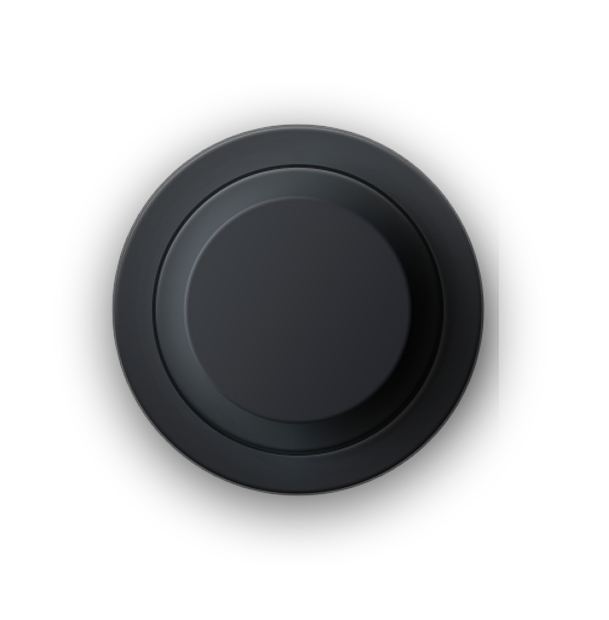
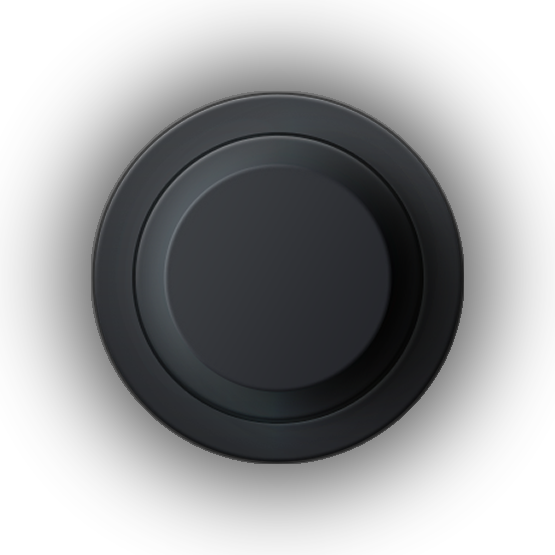
Add knob img and create component

diff --git a/Source/GUI/Components/ImgKnob.cpp b/Source/GUI/Components/ImgKnob.cpp
@@ -2,9 +2,10 @@
 #include "GTLook.h"
 #include "GUI/LAF/LookAndFeel.h"
 
-ImgKnob::ImgKnob (juce::AudioProcessorValueTreeState& apvts, const juce::ParameterID& parameterID, const juce::String& suffix)
+ImgKnob::ImgKnob (juce::AudioProcessorValueTreeState& apvts, const juce::ParameterID& parameterID, const juce::String& suffix, bool drawFromMiddle)
     : attachment (apvts, parameterID.getParamID(), *this),
-      unit (suffix)
+      unit (suffix),
+      drawFromMiddle (drawFromMiddle)
 {
     setSliderStyle (juce::Slider::SliderStyle::RotaryVerticalDrag);
     setTextBoxStyle (juce::Slider::NoTextBox, false, 0, 0);
@@ -25,25 +26,22 @@ void ImgKnob::paint (juce::Graphics& g)
     // knob.png already contains the knob face and its shadow.
     g.drawImage (knobImage, boundsF, juce::RectanglePlacement::centred, false);
 
-
     const auto knobRadius = boundsF.getWidth() * 0.25f;
     const auto centre = boundsF.getCentre();
-
     const auto rotaryParams = getRotaryParameters();
     const auto sliderPos = static_cast<float> (valueToProportionOfLength (getValue()));
     const auto angle = rotaryParams.startAngleRadians + sliderPos * (rotaryParams.endAngleRadians - rotaryParams.startAngleRadians);
-    const juce::PathStrokeType stroke (knobRadius * 0.07f, juce::PathStrokeType::mitered, juce::PathStrokeType::butt);
-    g.setColour (GTColors::accentActive);
+    const juce::PathStrokeType stroke (knobRadius * 0.075f, juce::PathStrokeType::mitered, juce::PathStrokeType::butt);
+    g.setColour(GTColors::dividerLines);
 
-    if (sliderPos > 0.001f)
-    {
-        const auto r = knobRadius * 1.2f;
-        juce::Path valueArc;
-        valueArc.addCentredArc (centre.x, centre.y,
-                                 r, r,
-                                 0.0f, rotaryParams.startAngleRadians, angle, true);
-        g.strokePath (valueArc, stroke);
-    }
+    const auto r = knobRadius * 1.5f;
+
+    if (drawFromMiddle)
+        paintFillStroke (g, centre, r, stroke, angle);
+    else
+        paintLightDots (g, centre, r, knobRadius, angle);
+
+    g.setColour (GTColors::accentActive);
 
     const juce::Point<float> tickDirection (std::sin (angle), -std::cos (angle));
     juce::Path tick;
@@ -54,5 +52,51 @@ void ImgKnob::paint (juce::Graphics& g)
     const auto text = juce::String (juce::roundToInt (getValue())) + unit;
     g.setColour (juce::Colours::white);
     g.setFont (Fonts::getFont (boundsF.getWidth() * 0.0975f));
-    g.drawText (text, boundsF.toNearestInt(), juce::Justification::centredBottom, true);
+    g.drawText (text, boundsF.translated (0.0f, boundsF.getHeight() * JUCE_LIVE_CONSTANT (0.0f)).toNearestInt(), juce::Justification::centredBottom, true);
+}
+
+void ImgKnob::paintFillStroke (juce::Graphics& g, juce::Point<float> centre, float r, const juce::PathStrokeType& stroke, float angle)
+{
+    const auto rotaryParams = getRotaryParameters();
+    juce::Path backgroundArc;
+    backgroundArc.addCentredArc (centre.x, centre.y,
+                                  r, r, 0.0f,
+                                   rotaryParams.startAngleRadians, rotaryParams.endAngleRadians, true);
+    g.strokePath (backgroundArc, stroke);
+
+    g.setColour (GTColors::accentActive);
+
+    const auto minStubAngle = 0.05f;
+    const auto midAngle = (rotaryParams.startAngleRadians + rotaryParams.endAngleRadians) * 0.5f;
+    const auto valueArcStart = drawFromMiddle ? juce::jmin (angle, midAngle) - minStubAngle : rotaryParams.startAngleRadians;
+    const auto valueArcEnd = drawFromMiddle ? juce::jmax (angle, midAngle) + minStubAngle : juce::jmax (angle, rotaryParams.startAngleRadians + minStubAngle);
+    juce::Path valueArc;
+    valueArc.addCentredArc (centre.x, centre.y,
+                             r, r,
+                             0.0f, valueArcStart, valueArcEnd, true);
+    g.strokePath (valueArc, stroke);
+}
+
+void ImgKnob::paintLightDots (juce::Graphics& g, juce::Point<float> centre, float r, float knobRadius, float angle)
+{
+    const auto rotaryParams = getRotaryParameters();
+    const auto numberOfDots = 11;
+    const auto dotRadius = knobRadius * 0.05f;
+    const auto minStubAngle = 0.05f;
+    const auto midAngle = (rotaryParams.startAngleRadians + rotaryParams.endAngleRadians) * 0.5f;
+    const auto litFromAngle = drawFromMiddle ? juce::jmin (angle, midAngle) - minStubAngle : rotaryParams.startAngleRadians;
+    const auto litToAngle = drawFromMiddle ? juce::jmax (angle, midAngle) + minStubAngle : angle;
+
+    for (auto dotIndex = 0; dotIndex < numberOfDots; ++dotIndex)
+    {
+        const auto dotProportion = static_cast<float> (dotIndex) / static_cast<float> (numberOfDots - 1);
+        const auto dotAngle = rotaryParams.startAngleRadians + dotProportion * (rotaryParams.endAngleRadians - rotaryParams.startAngleRadians);
+        const juce::Point<float> dotDirection (std::sin (dotAngle), -std::cos (dotAngle));
+        const auto dotCentre = centre + dotDirection * r * 0.77f;
+
+        const auto isLit = dotAngle >= litFromAngle && dotAngle <= litToAngle;
+        const auto litColour = GTColors::accentActive.withBrightness (juce::jmap (dotProportion, 0.7f, 1.0f));
+        g.setColour (isLit ? litColour : GTColors::dividerLines);
+        g.fillEllipse (dotCentre.x - dotRadius, dotCentre.y - dotRadius, dotRadius * 2.0f, dotRadius * 2.0f);
+    }
 }

diff --git a/Source/GUI/Components/ImgKnob.h b/Source/GUI/Components/ImgKnob.h
@@ -9,14 +9,19 @@
 class ImgKnob : public juce::Slider
 {
 public:
-    ImgKnob (juce::AudioProcessorValueTreeState& apvts, const juce::ParameterID& parameterID, const juce::String& suffix = {});
+    ImgKnob (juce::AudioProcessorValueTreeState& apvts, const juce::ParameterID& parameterID, const juce::String& suffix = {}, bool drawFromMiddle = false);
 
     void paint (juce::Graphics& g) override;
 
 private:
+    void paintFillStroke (juce::Graphics& g, juce::Point<float> centre, float r, const juce::PathStrokeType& stroke, float angle);
+    void paintLightDots (juce::Graphics& g, juce::Point<float> centre, float r, float knobRadius, float angle);
+
+
     juce::Image knobImage = juce::ImageCache::getFromMemory (BinaryData::knob_png, BinaryData::knob_pngSize);
     juce::AudioProcessorValueTreeState::SliderAttachment attachment;
     juce::String unit;
+    bool drawFromMiddle;
 
     JUCE_DECLARE_NON_COPYABLE_WITH_LEAK_DETECTOR (ImgKnob)
 };
